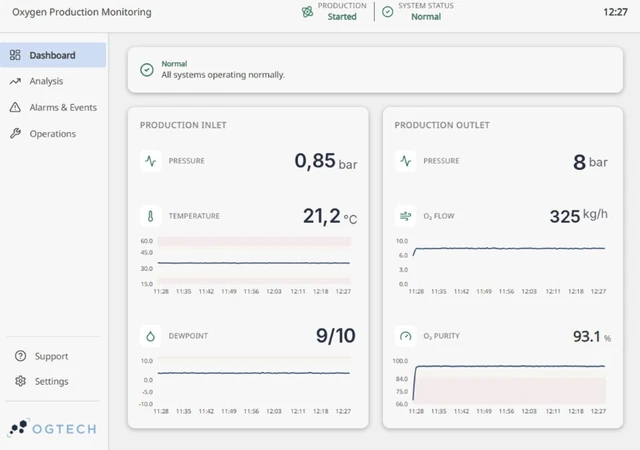
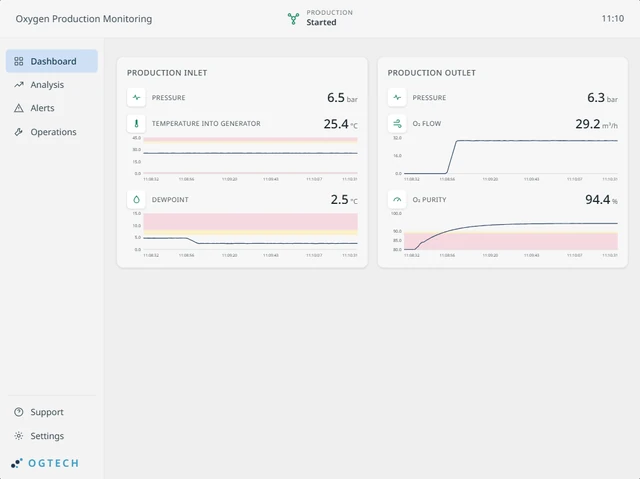
v2: Nye HMI-skjermbilder uten ramme
Bytter til nye skjermbilder av HMI-en (dashbord og drift), beskåret til
selve skjermen uten den mørke rammen og etiketten under. Bildeteksten
for driftssiden er oppdatert, siden den ikke lenger viser forventet tid.

Claude-Session: https://claude.ai/code/session_018xdza2UU8q1YH7qy3ih21G

diff --git a/v2/index.html b/v2/index.html
@@ -125,8 +125,8 @@
    </div>
    <h3 class="sub-title">HMI-en i dag</h3>
    <div class="hmi">
-    <figure><img src="assets/img/hmi-dashboard-825.webp" srcset="assets/img/hmi-dashboard-640.webp 640w, assets/img/hmi-dashboard-825.webp 825w" sizes="(max-width: 860px) 100vw, 50vw" width="825" height="580" alt="Skjermbilde fra HMI-en med oversikt over oksygenproduksjonen: trykk, temperatur og duggpunkt på innløpet, og trykk, O₂-flow og renhet på utløpet." loading="lazy"><figcaption>Oversikt i HMI-en: trykk, temperatur og duggpunkt inn – trykk, O₂-flow og renhet ut, i sanntid.</figcaption></figure>
-    <figure><img src="assets/img/hmi-operations-825.webp" srcset="assets/img/hmi-operations-640.webp 640w, assets/img/hmi-operations-825.webp 825w" sizes="(max-width: 860px) 100vw, 50vw" width="825" height="605" alt="Skjermbilde fra HMI-en med driftsfunksjoner for oppstart, pause, gjenopptak og nedstengning av anlegget." loading="lazy"><figcaption>Drift i HMI-en: oppstart, pause, gjenopptak og nedstengning, med forutsetninger og forventet tid.</figcaption></figure>
+    <figure><img src="assets/img/hmi-dashboard-1042.webp" srcset="assets/img/hmi-dashboard-640.webp 640w, assets/img/hmi-dashboard-1042.webp 1042w" sizes="(max-width: 860px) 100vw, 50vw" width="1042" height="780" alt="Skjermbilde fra HMI-en med oversikt over oksygenproduksjonen: trykk, temperatur og duggpunkt på innløpet, og trykk, O₂-flow og renhet på utløpet." loading="lazy"><figcaption>Oversikt i HMI-en: trykk, temperatur og duggpunkt inn – trykk, O₂-flow og renhet ut, i sanntid.</figcaption></figure>
+    <figure><img src="assets/img/hmi-operations-1019.webp" srcset="assets/img/hmi-operations-640.webp 640w, assets/img/hmi-operations-1019.webp 1019w" sizes="(max-width: 860px) 100vw, 50vw" width="1019" height="762" alt="Skjermbilde fra HMI-en med driftsfunksjoner for oppstart, pause, gjenopptak og nedstengning av anlegget." loading="lazy"><figcaption>Drift i HMI-en: oppstart, pause, gjenopptak og nedstengning, med forutsetningene som må være oppfylt for hvert steg.</figcaption></figure>
    </div>
    <p class="note">HMI, fjernstyring og datainnsamling er allerede i bruk på leverte anlegg. Flere funksjoner bygges ut trinnvis.</p>
   </div>

diff --git a/v2/en/index.html b/v2/en/index.html
@@ -125,8 +125,8 @@
    </div>
    <h3 class="sub-title">The HMI today</h3>
    <div class="hmi">
-    <figure><img src="../assets/img/hmi-dashboard-825.webp" srcset="../assets/img/hmi-dashboard-640.webp 640w, ../assets/img/hmi-dashboard-825.webp 825w" sizes="(max-width: 860px) 100vw, 50vw" width="825" height="580" alt="HMI screenshot showing oxygen production: inlet pressure, temperature and dew point, and outlet pressure, O₂ flow and purity." loading="lazy"><figcaption>HMI overview: inlet pressure, temperature and dew point – outlet pressure, O₂ flow and purity, in real time.</figcaption></figure>
-    <figure><img src="../assets/img/hmi-operations-825.webp" srcset="../assets/img/hmi-operations-640.webp 640w, ../assets/img/hmi-operations-825.webp 825w" sizes="(max-width: 860px) 100vw, 50vw" width="825" height="605" alt="HMI screenshot with operating functions for start-up, pause, resume and shutdown of the plant." loading="lazy"><figcaption>HMI operations: start-up, pause, resume and shutdown, with conditions and expected duration.</figcaption></figure>
+    <figure><img src="../assets/img/hmi-dashboard-1042.webp" srcset="../assets/img/hmi-dashboard-640.webp 640w, ../assets/img/hmi-dashboard-1042.webp 1042w" sizes="(max-width: 860px) 100vw, 50vw" width="1042" height="780" alt="HMI screenshot showing oxygen production: inlet pressure, temperature and dew point, and outlet pressure, O₂ flow and purity." loading="lazy"><figcaption>HMI overview: inlet pressure, temperature and dew point – outlet pressure, O₂ flow and purity, in real time.</figcaption></figure>
+    <figure><img src="../assets/img/hmi-operations-1019.webp" srcset="../assets/img/hmi-operations-640.webp 640w, ../assets/img/hmi-operations-1019.webp 1019w" sizes="(max-width: 860px) 100vw, 50vw" width="1019" height="762" alt="HMI screenshot with operating functions for start-up, pause, resume and shutdown of the plant." loading="lazy"><figcaption>HMI operations: start-up, pause, resume and shutdown, with the conditions that must be met for each step.</figcaption></figure>
    </div>
    <p class="note">HMI, remote control and data collection are already in use on delivered plants. More functionality is being added step by step.</p>
   </div>
